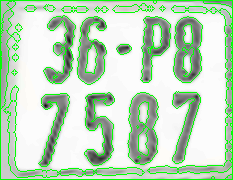
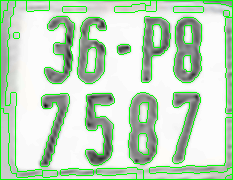
write comment

diff --git a/src/ImgProcessing.py b/src/ImgProcessing.py
@@ -8,6 +8,7 @@ from math import floor
 
 IMG_WIDTH, IMG_HEIGHT = 40, 40
 
+# Tạo folder ImgProcessOutput lưu lại hình ảnh các bước phân đoạn hình ảnh
 origin_folder = os.path.abspath(os.path.join(os.getcwd(), os.pardir))
 img_processing_output = origin_folder + "/ImgProcessOutput"
 if not os.path.exists(img_processing_output):
@@ -17,6 +18,7 @@ else:
 	for f in files:
 	    os.remove(f)
 
+# Phân đoạn / tách các kí tự số từ biển số
 def segment(image):
 	global fixed_size_image
 	if image.shape[1] >= image.shape[0] * 2 :
@@ -26,23 +28,32 @@ def segment(image):
 		f = 180 / image.shape[0]
 		fixed_size_image = cv2.resize(image, None, fx=f, fy=f, interpolation = cv2.INTER_LINEAR)
 
+	# Loại bỏ nhiễu từ ảnh màu bằng cách ánh xạ vào không gian màu CIELAB
 	fixed_size_image = cv2.fastNlMeansDenoisingColored(fixed_size_image,None,10,10,7,21)
 	cv2.imwrite(img_processing_output + '/1-fixed_size_image.png', fixed_size_image)
-	global binary_image
 	
+	global binary_image
+	# Chuyển ảnh màu sang ảnh xám
 	gray_image = cv2.cvtColor(fixed_size_image, cv2.COLOR_BGR2GRAY)
-
+	# Chuyển ảnh xám sang ảnh nhị phân bằng một phương thức có thể thích nghi (adaptive)
+	# ADAPTIVE_THRESH_MEAN_C : Ngưỡng là giá trị trung bình của vùng lân cận. 
 	binary_image = cv2.adaptiveThreshold(gray_image, 255, cv2.ADAPTIVE_THRESH_MEAN_C, cv2.THRESH_BINARY, 11, 2)
-	cv2.imwrite(img_processing_output + '/2.1-binary_image.png', binary_image)
+	cv2.imwrite(img_processing_output + '/2-binary_image.png', binary_image)
 
-	#binary_image  = cv2.morphologyEx(binary_image,cv2.MORPH_OPEN,cv2.getStructuringElement(cv2.MORPH_CROSS, (5, 5)));
-	#cv2.imwrite(img_processing_output + '/2.2-binary_image_MORPH_OPEN.png', binary_image )
- 
-	binary_image = cv2.morphologyEx(binary_image,cv2.MORPH_CLOSE,cv2.getStructuringElement(cv2.MORPH_CROSS, (5, 5)));
-	cv2.imwrite(img_processing_output + '/2.3-binary_image_MORPH_CLOSE.png', binary_image )
+	kernel = np.ones((5,5),np.uint8)
+	# Loại bỏ nhiễu bằng cách:
+	# MORPH_OPEN: Loại bỏ các điểm trắng trên nền đen
+	binary_image = cv2.morphologyEx(binary_image, cv2.MORPH_OPEN, kernel);
+	cv2.imwrite(img_processing_output + '/3.0-binary_image_MORPH_OPEN.png', binary_image )
+	# MORPH_CLOSE: Loại bỏ các điểm đen trên nền trắng 
+	binary_image = cv2.morphologyEx(binary_image, cv2.MORPH_CLOSE, kernel);
+	cv2.imwrite(img_processing_output + '/3.1-binary_image_MORPH_CLOSE.png', binary_image )
 	print('-- binary image processed!')
 
+	# Vẽ viền trắng 1px cho ảnh để tránh các trường hợp kí tự bị dính vào viền
 	cv2.rectangle(binary_image, (0,0), (binary_image.shape[1] - 1, binary_image.shape[0] - 1), (255,255,255), 1)
+
+	# Tìm đường viền cho các đối tượng trong ảnh
 	__, contours, __ = cv2.findContours(binary_image.copy(), cv2.RETR_TREE, cv2.CHAIN_APPROX_SIMPLE)
 
 	img_clone = fixed_size_image.copy()
@@ -50,50 +61,54 @@ def segment(image):
 	cv2.imwrite(img_processing_output + '/4-bounding_rect_full.png', img_clone)
 
 	img_clone_1 = fixed_size_image.copy()
-
-
 	list_contours = []
 	rois = []
+	# Duyệt mảng contours
 	for cnt in contours:
+		# Xác định hình chữ nhật bao quanh đường viền
 		x, y, w, h = cv2.boundingRect(cnt)
+		# Kiểm tra đường viền đó có thể là số hay không
 		if is_number_region(x, y, w, h, cv2.contourArea(cnt)): 
 			list_contours.append(cnt)
 			cv2.rectangle(img_clone_1, (x,y), (x+w, y+h), (0,0,255), 2)
-			#cv2.drawContours(img_clone_1,[c],0,(0,0,255),2)
-	cv2.imwrite(img_processing_output + '/4.5-bounding_rect_full.png', img_clone_1)
+	cv2.imwrite(img_processing_output + '/5-bounding_rect_full.png', img_clone_1)
 
-	# Tạo mặt nạ
+	# Tạo mặt nạ để loại bỏ các đường viền lồng nhau
+	# cần có margin cho mỗi contour để tránh trường hợp 2 contour sát nhau tạo thành một vùng dính nhau.
 	mask = np.zeros((binary_image.shape[0], binary_image.shape[1], 1), dtype = "uint8")
 	margin = 5
 	for cnt in list_contours:
 		x, y, w, h = cv2.boundingRect(cnt)
+		# Vẽ hình chữ nhật cho mỗi số vào mặt nạ
 		cv2.rectangle(mask, (x + margin,y + margin), (x + w - margin, y + h - margin), (255,255,255), -1)
 	
-	cv2.imwrite(img_processing_output + '/4.6-mask.png', mask)
+	cv2.imwrite(img_processing_output + '/6-mask.png', mask)
+	# Xác định lại contours trên mặt nạ sẽ loại bỏ được các contour lồng nhau
 	_, list_contours, _ = cv2.findContours(mask, cv2.RETR_TREE, cv2.CHAIN_APPROX_SIMPLE)
 
-	# sort list_contours
+	# Sắp xếp lại thứ tự các contour như trong ảnh.
 	dtype = [('value', int), ('index', int)]
 	arr_tmp = np.array([(transfer(cnt), idx) for idx, cnt in enumerate(list_contours)], dtype=dtype)
 	arr_tmp = np.sort(arr_tmp, order='value')
 	list_contours = list(map(lambda value: list_contours[value[1]], arr_tmp))
 
-
+	# Cắt các số từ ảnh nhị phân và lưu vào mảng rois
 	kernel = np.ones((3,3),np.uint8)
 	for lc in list_contours:
 		x, y, w, h = cv2.boundingRect(lc)
 		rois.append(cv2.erode(binary_image[y - margin:y + h + margin, x - margin:x + w + margin], kernel, iterations = 1))
 
+	# Canh giữa các kí tự và một ảnh mới có cùng kích thước
 	return np.array([center_to_fill(roi, idx) for idx, roi in enumerate(rois)])
 
 def is_number_region(x,y,w,h,area):
 	img_height = binary_image.shape[0]
 	center = (x + w/2, y + h/2)
 	return x > 0 and x + w < binary_image.shape[1] and h/w >= 1.2 and h/w <= 5.5 and area > 400 and w*h < 4000 and \
-			((abs(center[1] - img_height / 4) < img_height / 10) or \
-			(abs(center[1] - 3 * img_height / 4) < img_height / 10))
+			# Chia biển số thành 4 phần (3 lines) theo chiều dọc, vùng được chọn sẽ có trọng tâm xấp xỉ với line thứ 1 và 3
+			((abs(center[1] - img_height / 4) < img_height / 10) or (abs(center[1] - 3 * img_height / 4) < img_height / 10))
 
-
+# Tính một giá trị cho contour để xác định được thứ tự trước sau và trên dưới.
 def transfer(cnt):
 	x, y, w, h = cv2.boundingRect(cnt)
 	img_h = binary_image.shape[0]
@@ -104,7 +119,7 @@ def transfer(cnt):
 	else:
 		return x + pow(3*img_h/4, 2)
 
-
+# Chuyển một kí tự số vào một ảnh có kích thước cố định và canh giữa nó
 def center_to_fill(image, idx):
 	f = IMG_HEIGHT/image.shape[0]
 	resize_img = cv2.resize(image, None, fx=f, fy=f, interpolation = cv2.INTER_LINEAR)
